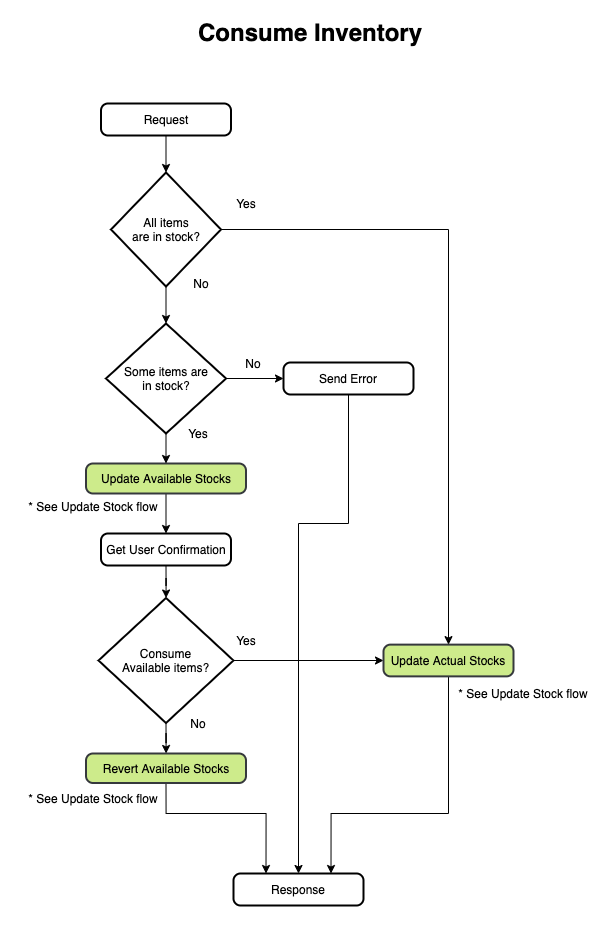
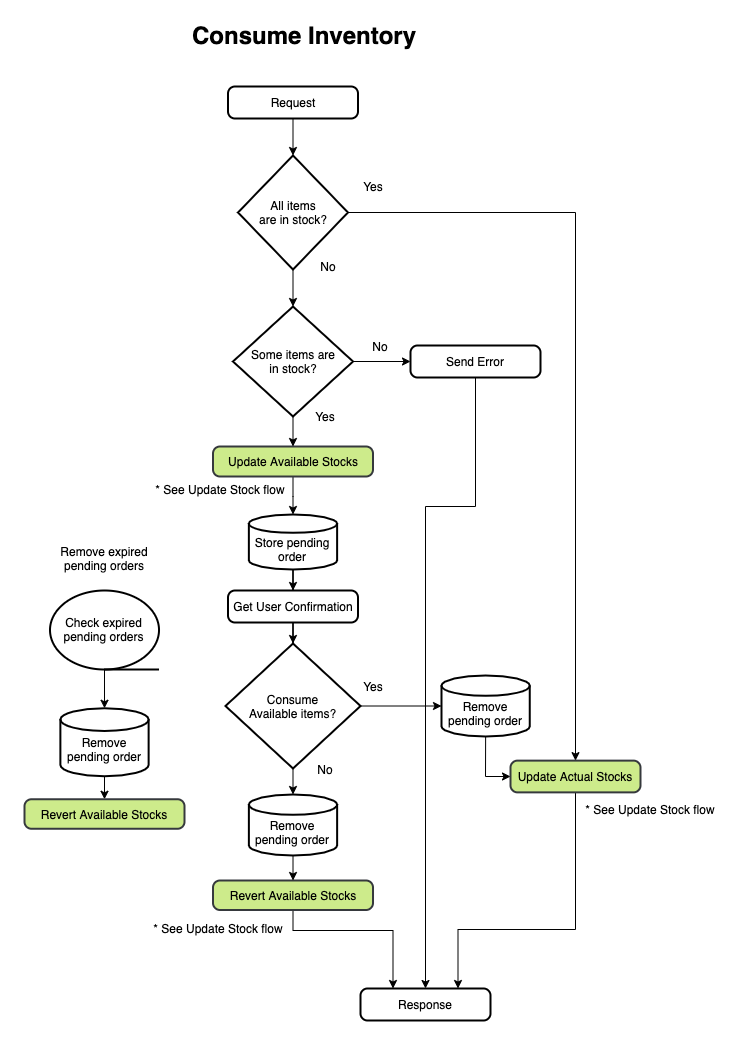
* Consume architectural design updated * Inventory seed data added * Pending orders repository added

diff --git a/src/inventory/app.ts b/src/inventory/app.ts
@@ -1,0 +1,1 @@
+console.log("hello!")

diff --git a/readme.md b/readme.md
@@ -36,6 +36,10 @@ npm install && npm test
 ```
 <br/><br/>
 
+## Solution architecture
+See the architecture [here](docs/architecture.md)
+<br/><br/>
+
 ## Interacting with the service
 First run the inventory service in [Development](#How-to-run-the-service-in-Development-mode?) or [Production](#How-to-run-the-service-in-Production-mode?) mode.
 <br/><br/>
@@ -48,15 +52,15 @@ a GET call to http://localhost:8080?token=user-1&client=web&lang=en-us&count=5&p
 
 #### Request parameters,
 * **token**  
-Token parameter is simplified token which will provoke unauthorize access to the service.
+Token parameter is simplified token which will provoke unauthorize access to the service.  
 This is a mendatory field, if not provided an unauthenticated error will be send.
 
 * **client**  
-Client parameter is used to identify the client. It can be **web** or **mobile**.
+Client parameter is used to identify the client. It can be **web** or **mobile**.  
 This is an optional parameter, **web** will be used by default.
 
 * **lang**  
-Lang parameter is used to select the currency for price.
+Lang parameter is used to select the currency for price.  
 This is an optional param. default value is **en-us**.
 
 * **count**  
@@ -65,9 +69,10 @@ Its default value is **5**.
 
 * **page**  
 Page is used to determine to find which segment of data will be provided.  
+<br/>
 For example,  
-Lets say total inventory is 30. If **count** is 10, there will be 3 page segment.
-In this case, valid page **value** will be 0, 1 and 2.
+Lets say total number of inventory is 30. If **count** is 10, there will be 3 page segments.  
+In this case, valid page **value** are be 0, 1 and 2.
 <br/><br/>
 
 #### Example Response
@@ -107,11 +112,11 @@ with following payload.
 
 #### Request parameters,
 * **token**  
-Token parameter is simplified token which will be used to identify the user.
+Token parameter is simplified token which will be used to identify the user.  
 This is a mendatory field, if not provided an unauthenticated error will be send.
 
 * **client**  
-Client parameter is used to identify the client. It can be **web** or **mobile**.
+Client parameter is used to identify the client. It can be **web** or **mobile**.  
 This is an optional parameter, **web** will be used by default.
 
 Payload
@@ -133,13 +138,12 @@ After this point 3 different things can happen.
 1) All the items has sufficent quantity and can be baught successfully.  
 In this case success response will be send.
 
-2) None of the items has sufficient quantity.
+2) None of the items has sufficient quantity.  
 In this case error message will be send.
 
-3) Some of the items as sufficient quantity and some doesn't has.
-In this case eligible items will be hold for 5 minutes in requested quantity.
-
-Following respons will be send,
+3) Some of the items as sufficient quantity and some doesn't has.  
+In this case eligible items will be hold for 5 minutes in requested quantity  
+and following respons will be send,
 
 ```javascript
 {
@@ -157,12 +161,58 @@ Following respons will be send,
   ],
   confirmation: {
     confirm: '/confirm/ae23fcc2',
-    cancel: '/confirm/ae23fcc2',
+    cancel: '/cancel/ae23fcc2',
+    status: '/status/ae23fcc2'
     validTill: '2018-04-23T10:26:00.996Z'
   }
 }
 ```
-
+<br/><br/>
 Now user have 2 options,  
 1) They can confirm the order by making a POST call to http://localhost:8080/confirm/ae23fcc2?token=user-1&client=mobile
 2) Or they can cancel the order by making a POST call to http://localhost:8080/cancel/ae23fcc2?token=user-1&client=mobile
+<br/><br/>
+
+To check the validity of a pending order client can make a Get call to http://localhost:8080/status/be23dcc3?token=user-1&client=web.  
+This endpoint will return following response.
+
+```javascript
+{
+  availableItems: [
+    {
+      productId: '102',
+      quantity: 1
+    }
+  ],
+  unavailableItems: [
+    {
+      productId: '101',
+      quantity: 2
+    }
+  ],
+  confirmation: {
+    confirm: '/confirm/ae23fcc2',
+    cancel: '/cancel/ae23fcc2',
+    status: '/status/ae23fcc2'
+    validTill: '2018-04-23T10:26:00.996Z'
+  }
+}
+```
+<br/>
+
+Finally, client can check anytime if an user has any pending order by making a Get call to http://localhost:8080/pending?token=user-1&client=web.  
+Which will give followign response.
+```javascript
+{
+  pendingOrders: [
+    {
+      orderId: 'ae23fcc2',
+      validTill: '2018-04-23T10:26:00.996Z'
+    },
+    {
+      orderId: 'be23dcc3',
+      validTill: '2018-04-23T10:26:00.996Z'
+    }
+  ]
+}
+```

diff --git a/docs/architecture.md b/docs/architecture.md
@@ -46,12 +46,12 @@ Incorporate express.js framework to start the http service
 <br/><br/>
   
 #### Get price flow
-<img src="./get-price.png?raw=true" width="300" title="Get price">
+<img src="./get-price.png?raw=true" width="200" title="Get price">
 <br/><br/>
 
 #### Consume inventory flow
-<img src="./consume-inventory.png?raw=true" width="300" title="Consume inventory">
+<img src="./consume-inventory.png?raw=true" width="400" title="Consume inventory">
 <br/><br/>
 
 #### Update stock flow
-<img src="./update-stock.png?raw=true" width="300" title="Update stock">
+<img src="./update-stock.png?raw=true" width="200" title="Update stock">
